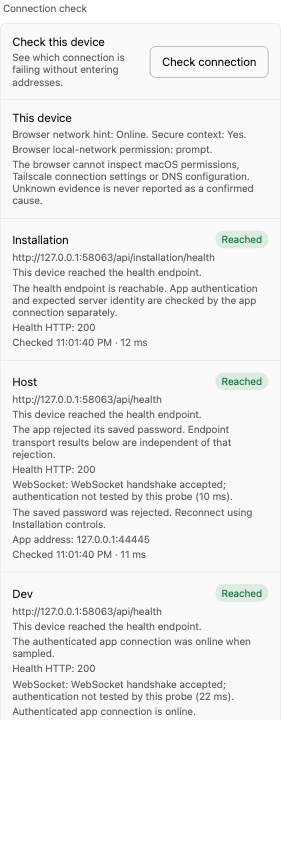
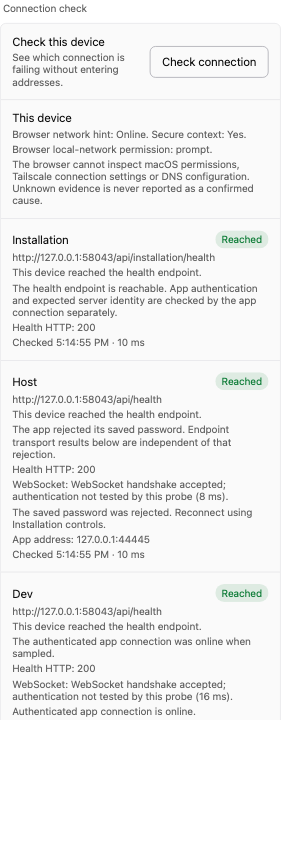
Repair macOS-only server tests the Linux CI never runs
- coordinator-bootstrap-maintenance-child-custody and
  -recovery-native-ports resolved scripts/inspect-coordinator-process.py
  from the cwd, like the launcher test fixed in 1fad1e70d. Resolve it
  from the test file; 28 cases pass again on macOS.
- workspace-service-port-allocator compared the script's canonical cwd
  with a /var path; macOS tmpdir() sits behind the /private symlink.

diff --git a/packages/server/src/server/workspace-service-port-allocator.test.ts b/packages/server/src/server/workspace-service-port-allocator.test.ts
@@ -1,4 +1,4 @@
-import { chmodSync, mkdtempSync, readFileSync, rmSync, writeFileSync } from "node:fs";
+import { chmodSync, mkdtempSync, readFileSync, rmSync, writeFileSync, realpathSync } from "node:fs";
 import net from "node:net";
 import { tmpdir } from "node:os";
 import { join } from "node:path";
@@ -46,7 +46,8 @@ describe("allocateWorkspaceServicePort", () => {
   });
 
   it("passes service and workspace context to portScript", async () => {
-    const tempDir = mkdtempSync(join(tmpdir(), "workspace-service-port-allocator-"));
+    // The script reports its canonical cwd; macOS tmpdir() sits behind a /var symlink.
+    const tempDir = realpathSync(mkdtempSync(join(tmpdir(), "workspace-service-port-allocator-")));
     tempDirs.push(tempDir);
     const port = await getFreePort();
     const scriptPath = createContextPortScript(tempDir, port);

diff --git a/packages/server/src/server/execution-installation/coordinator-bootstrap-maintenance-recovery-native-ports.test.ts b/packages/server/src/server/execution-installation/coordinator-bootstrap-maintenance-recovery-native-ports.test.ts
@@ -68,7 +68,9 @@ test.each([0, 1023, 65536, 1.5, NaN])("recovery port validation rejects %s", (po
 function nativeFixture() {
   const root = realpathSync(mkdtempSync(path.join(tmpdir(), "recovery-native-port-")));
   roots.push(root);
-  const helper = readFileSync(path.resolve("scripts/inspect-coordinator-process.py"));
+  const helper = readFileSync(
+    new URL("../../../../../scripts/inspect-coordinator-process.py", import.meta.url),
+  );
   const helperPath = path.join(root, "inspector.py");
   writeFileSync(helperPath, helper, { mode: 0o600 });
   const observed = BootstrapProcessIdentitySchema.parse(

diff --git a/packages/server/src/server/execution-installation/coordinator-bootstrap-maintenance-child-custody.test.ts b/packages/server/src/server/execution-installation/coordinator-bootstrap-maintenance-child-custody.test.ts
@@ -18,7 +18,9 @@ test
   async (mode) => {
     const root = realpathSync(mkdtempSync(path.join(tmpdir(), "maintenance-child-")));
     roots.push(root);
-    const helper = readFileSync(path.resolve("scripts/inspect-coordinator-process.py"));
+    const helper = readFileSync(
+      new URL("../../../../../scripts/inspect-coordinator-process.py", import.meta.url),
+    );
     const helperPath = path.join(root, "inspector.py");
     writeFileSync(helperPath, helper, { mode: 0o600 });
     const expected = JSON.parse(

diff --git a/docs/vorteo-customizations.md b/docs/vorteo-customizations.md
@@ -130,6 +130,8 @@ Maintenance review (2026-10-22): threads stopped by a Claude or Codex usage limi
 
 Maintenance review (2026-10-22): the installation coordinator stores provider API keys and tokens once (`provider-secrets/state.json`, mode 0600) and delivers them into each bound environment's provider `env`. It withdraws them from excluded or removed environments, adopts a key found in exactly one form on first sync, and reports conflicting values without overwriting them. Owner routes return names, last four characters and status for each environment, never values. Host-owned Claude refresh stays opt-in. Codex sign-ins stay per environment; status reports this. Settings gives each provider its own page, with an API keys sheet on every connection. README overview and onboarding are unchanged.
 
+Maintenance review (2026-10-22): macOS-only server tests for native recovery and port allocation were repaired; no feature changed. README overview and onboarding are unchanged.
+
 Maintenance review (2026-10-22): merged main into the CI repair branch; installation account delivery routes, including Host-refreshed Claude sign-in and provider secrets, mount through one provider-neutral function. README overview and onboarding are unchanged.
 
 Maintenance review (2026-10-22): a timing-dependent agent skills test was settled; no feature changed. README overview and onboarding are unchanged.

diff --git a/VORTEO_CHANGELOG.md b/VORTEO_CHANGELOG.md
@@ -4,6 +4,12 @@ Vorteo change history, covering features, fixes, documentation, tests, tooling a
 
 The initial baseline is cumulative; older entries do not cover every maintenance commit. Historical version labels are preserved. Paseo release history remains in the [upstream changelog](CHANGELOG.md); the [customizations inventory](docs/vorteo-customizations.md) describes current fork capabilities and limitations.
 
+## 0.11.0-beta.3.vorteo.800 - 2026-10-22
+
+### Maintenance
+
+- Repair macOS-only server tests that Linux CI never runs. Two native recovery suites found the process inspector script from the working directory, and the port allocator test compared a temporary path with its canonical form behind the macOS /var symlink.
+
 ## 0.11.0-beta.3.vorteo.799 - 2026-10-22
 
 ### Maintenance
